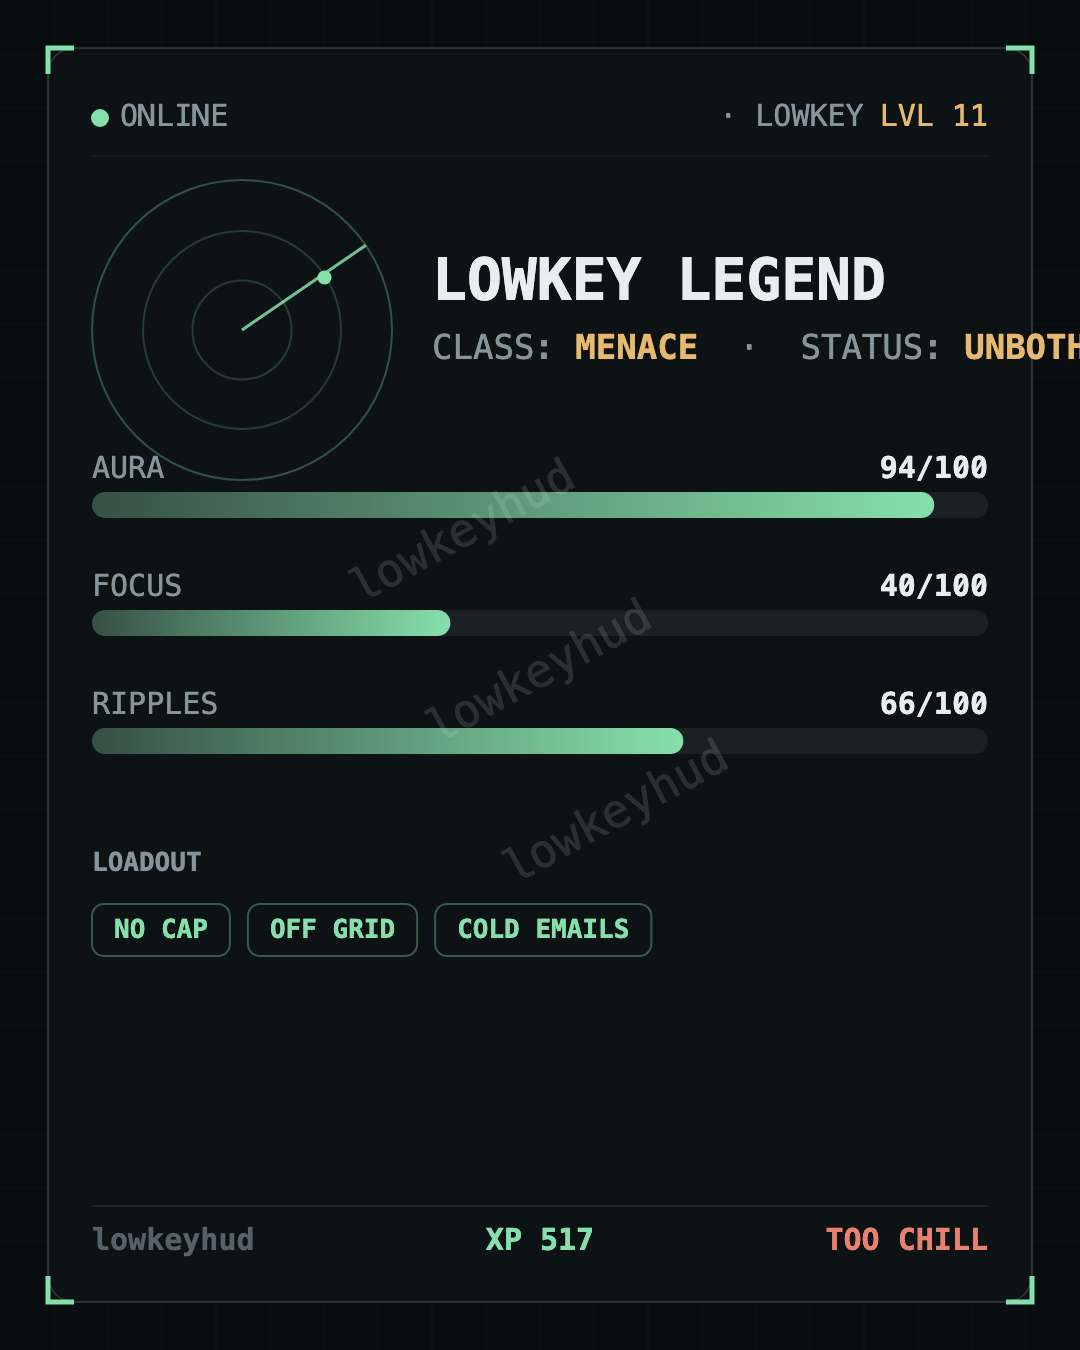
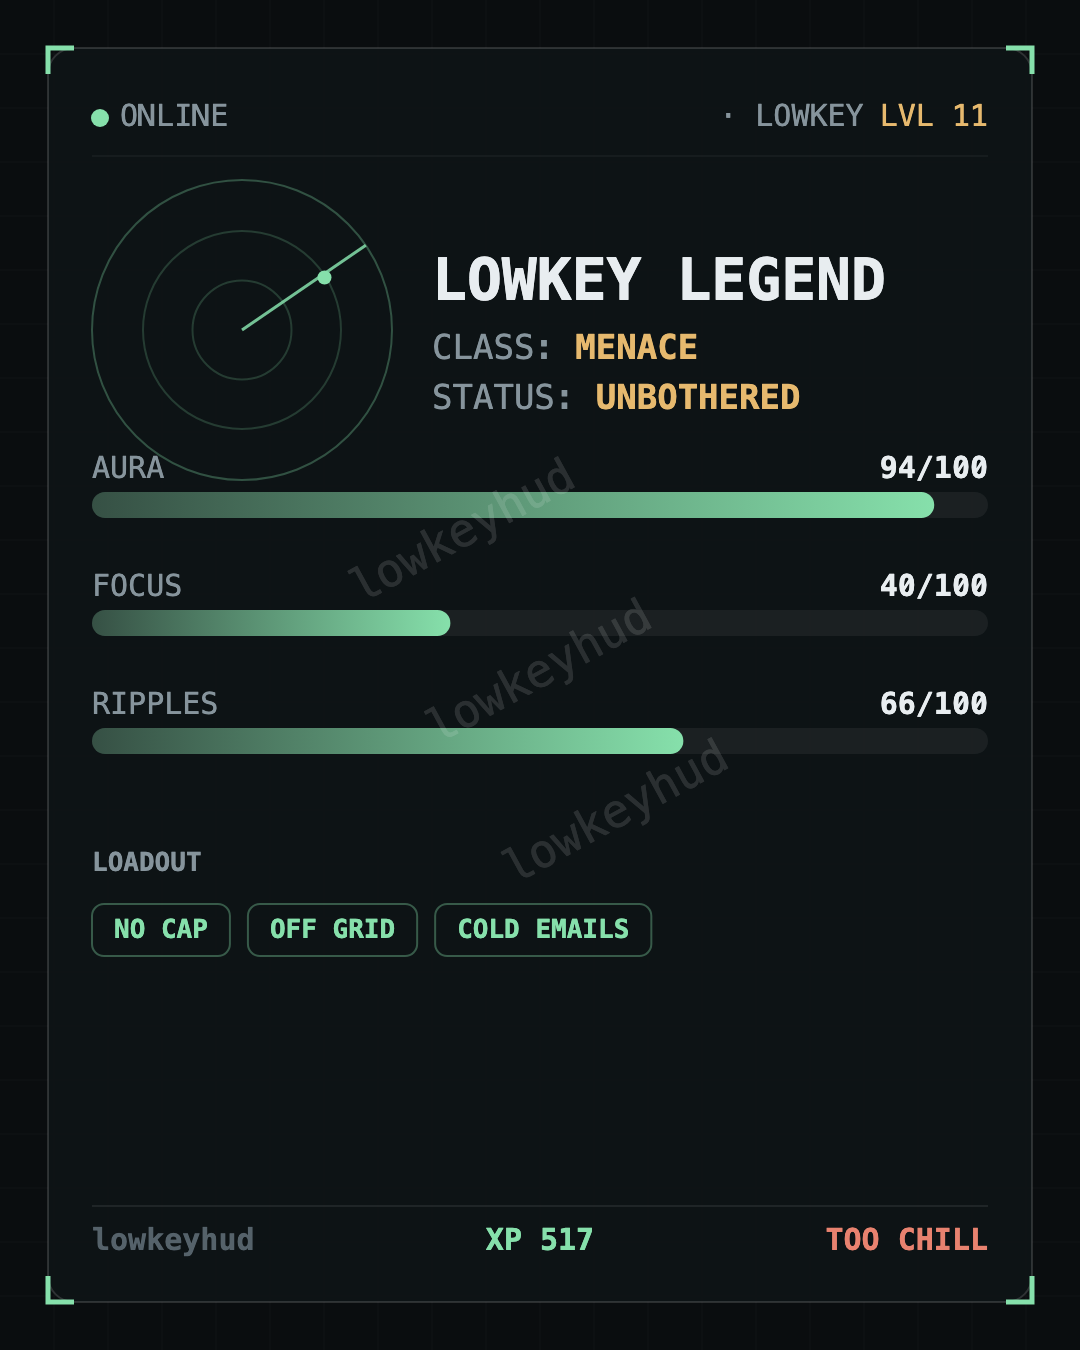
Fix status text clipping at the card's right edge
Long CLASS + STATUS lines overflowed the inner card width and got cut
off mid-word. STATUS now wraps to its own line when the inline row
doesn't fit, and long names ellipsize instead of clipping. Re-exported
the launch cards, which had the same clip on their status lines.

🤖 Generated with Codebuff

diff --git a/generator.html b/generator.html
@@ -664,20 +664,38 @@
 
     // name + class
     var tx = cx + r + 40;
+    var maxX = W - P;   // inner right edge of the card
     ctx.textAlign = "left";
     mono(ctx, "700 58px", "#e8edf0");
-    ctx.fillText(d.name.toUpperCase(), tx, 285);
+    var nameTxt = d.name.toUpperCase();
+    if (ctx.measureText(nameTxt).width > maxX - tx) {
+      while (nameTxt.length > 1 && ctx.measureText(nameTxt + "…").width > maxX - tx) nameTxt = nameTxt.slice(0, -1);
+      nameTxt += "…";
+    }
+    ctx.fillText(nameTxt, tx, 285);
+    var clsLabel = MODES[d.mode].clsLabel + ": ";
     mono(ctx, "500 34px", "#86949c");
-    ctx.fillText(MODES[d.mode].clsLabel + ": ", tx, 350);
-    var clsW = ctx.measureText(MODES[d.mode].clsLabel + ": ").width;
+    ctx.fillText(clsLabel, tx, 350);
+    var clsW = ctx.measureText(clsLabel).width;
     mono(ctx, "600 34px", "#e6b96e");
     ctx.fillText(d.cls, tx + clsW, 350);
     var mid = ctx.measureText(d.cls).width;
-    mono(ctx, "500 34px", "#86949c");
-    ctx.fillText("  ·  STATUS: ", tx + clsW + mid, 350);
-    var stW = ctx.measureText("  ·  STATUS: ").width;
-    mono(ctx, "600 34px", "#e6b96e");
-    ctx.fillText(d.status, tx + clsW + mid + stW, 350);
+    var sep = "  ·  STATUS: ";
+    if (tx + clsW + mid + ctx.measureText(sep).width + ctx.measureText(d.status).width <= maxX) {
+      // fits on one line
+      mono(ctx, "500 34px", "#86949c");
+      ctx.fillText(sep, tx + clsW + mid, 350);
+      var stW = ctx.measureText(sep).width;
+      mono(ctx, "600 34px", "#e6b96e");
+      ctx.fillText(d.status, tx + clsW + mid + stW, 350);
+    } else {
+      // status wraps to its own line below so it's never clipped
+      var sep2 = "STATUS: ";
+      mono(ctx, "500 34px", "#86949c");
+      ctx.fillText(sep2, tx, 400);
+      mono(ctx, "600 34px", "#e6b96e");
+      ctx.fillText(d.status, tx + ctx.measureText(sep2).width, 400);
+    }
 
     // stats
     var sy = 470;
